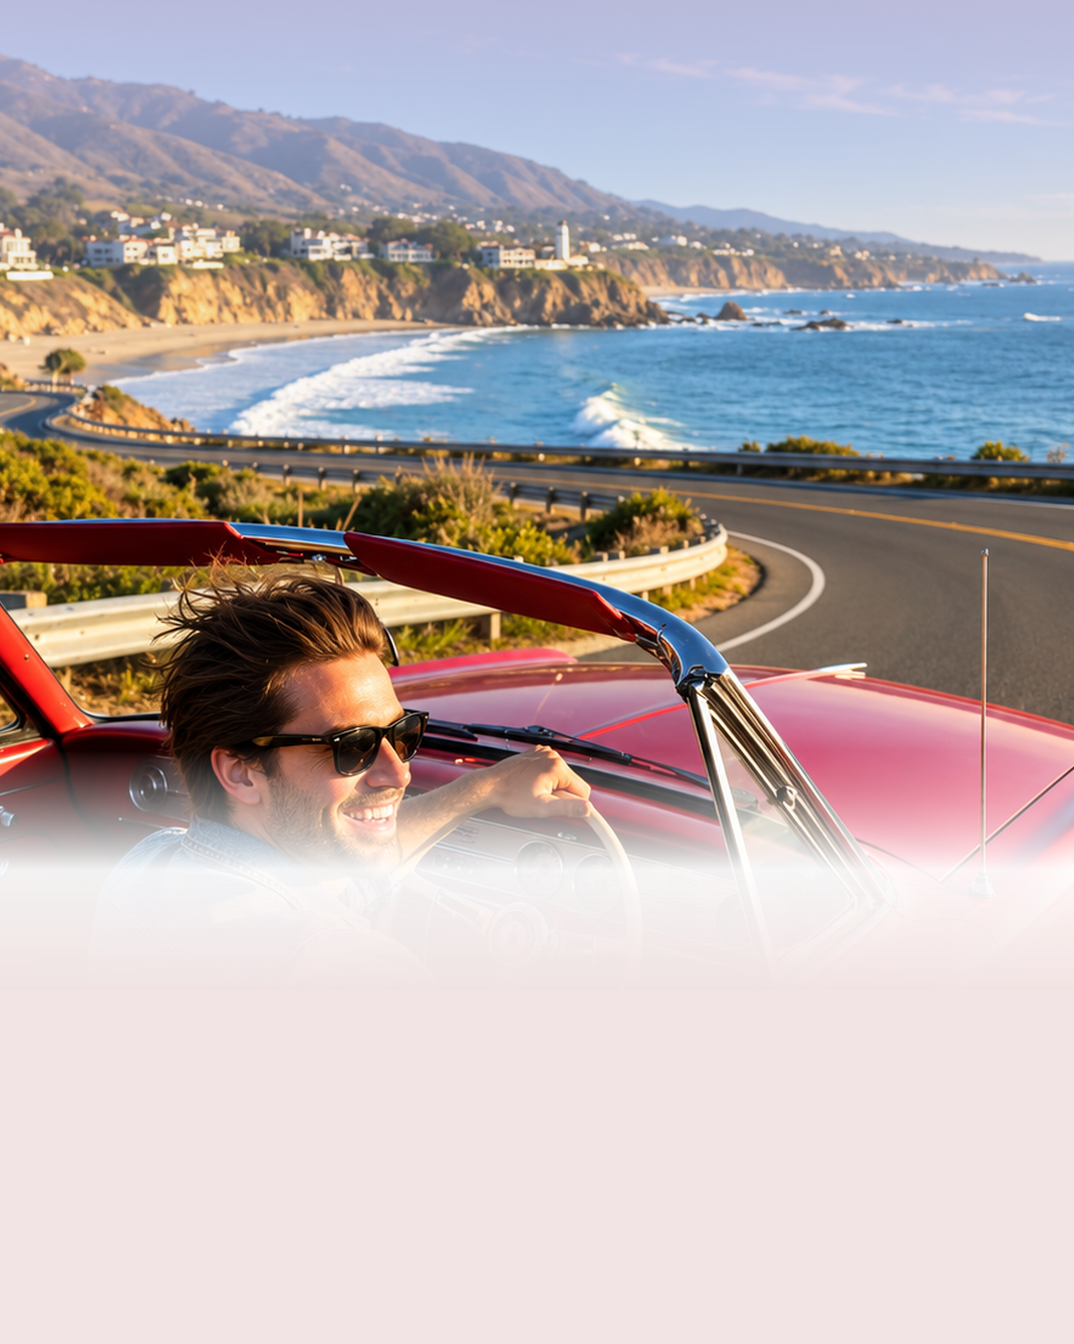
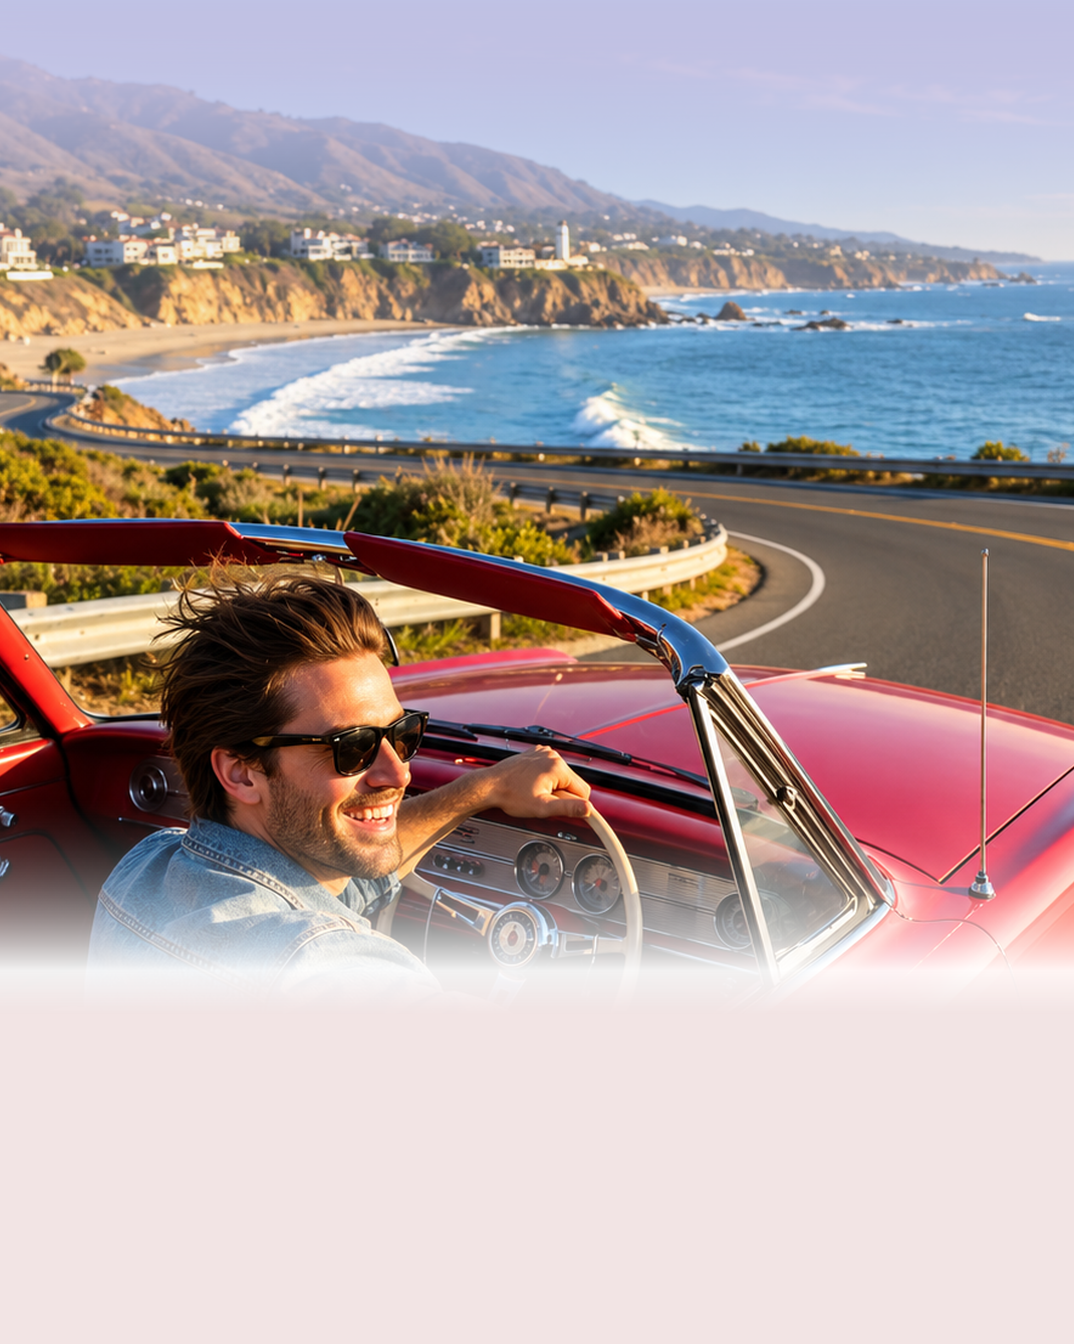
Lighter Figma fade (photo clear to ~60%, seamless into #F2E4E4 footer), full Figma top tint, action cards follow light/dark

Changed region(s): [[0.0, 0.5625, 1.0, 0.7188], [0.0, 0.0312, 0.0922, 0.125]]

diff --git a/index.html b/index.html
@@ -127,8 +127,10 @@ button,select{font:inherit;color:inherit}
 .act .dot{width:24px;height:24px;border-radius:50%;display:grid;place-items:center}
 .act .dot svg{width:14px;height:14px}
 .act b{font-size:13px;margin-top:7px}.act small{margin-top:auto;color:var(--muted);font-size:11px}
-.acts .act.act-glass{background:rgba(255,255,255,.86);color:#1c1c1e;border:1px solid rgba(255,255,255,.6);box-shadow:0 8px 24px rgba(0,0,0,.18),inset 0 1px 0 rgba(255,255,255,.9);-webkit-backdrop-filter:blur(20px) saturate(1.6);backdrop-filter:blur(20px) saturate(1.6)}
-.acts .act.act-glass small{color:#6e6e73}.acts .act.link.act-glass:hover{background:#fff}
+/* Featured Action cards follow the appearance, like Wallet and Pass Designer: dark cards in dark mode, white in light mode. */
+html[data-theme="light"] .acts .act{background:#fff;color:#1c1c1e;border:1px solid rgba(0,0,0,.08);box-shadow:0 2px 10px rgba(0,0,0,.06)}
+html[data-theme="light"] .acts .act small{color:#6e6e73}html[data-theme="light"] .acts .act.link:hover{background:#f7f7f9}
+html[data-theme="light"] .acts .act.empty{background:transparent;border:1px dashed #c7c7cc;color:#8e8e93}
 .act.link{color:inherit;text-decoration:none;cursor:pointer;transition:background .15s,transform .15s}.act.link:hover{background:#3a3a3d;transform:translateY(-1px)}.act.link:focus-visible{outline:2px solid var(--accent);outline-offset:2px}
 .xl{color:#6cb2ff;text-decoration:none;word-break:break-all}.xl:hover{text-decoration:underline}
 .jl{border:0;background:none;padding:0;color:#6cb2ff;cursor:pointer;font:inherit;text-align:left}.jl:hover{text-decoration:underline}
@@ -758,7 +760,7 @@ function isLightPass(p){
   return (0.2126 * v[0] + 0.7152 * v[1] + 0.0722 * v[2]) / 255 > 0.6;
 }
 function actsHTML(p){
-  const acts = p.featuredActions || [], glass = isLightPass(p) ? ' act-glass' : '';
+  const acts = p.featuredActions || [], glass = '';
   return acts.slice(0, MAX_ACTIONS).map((a,i) => {
     const d = ACTION_BY_TYPE[a.type] || {title:a.type||'Unknown action',sub:'Unsupported type',color:'#636366',g:'star'};
     const href = actionHref(a), tip = a.type === 'place' ? 'Opens this place in Apple Maps' : a.type === 'call' ? 'Calls ' + href.slice(4) : 'Opens ' + href;
